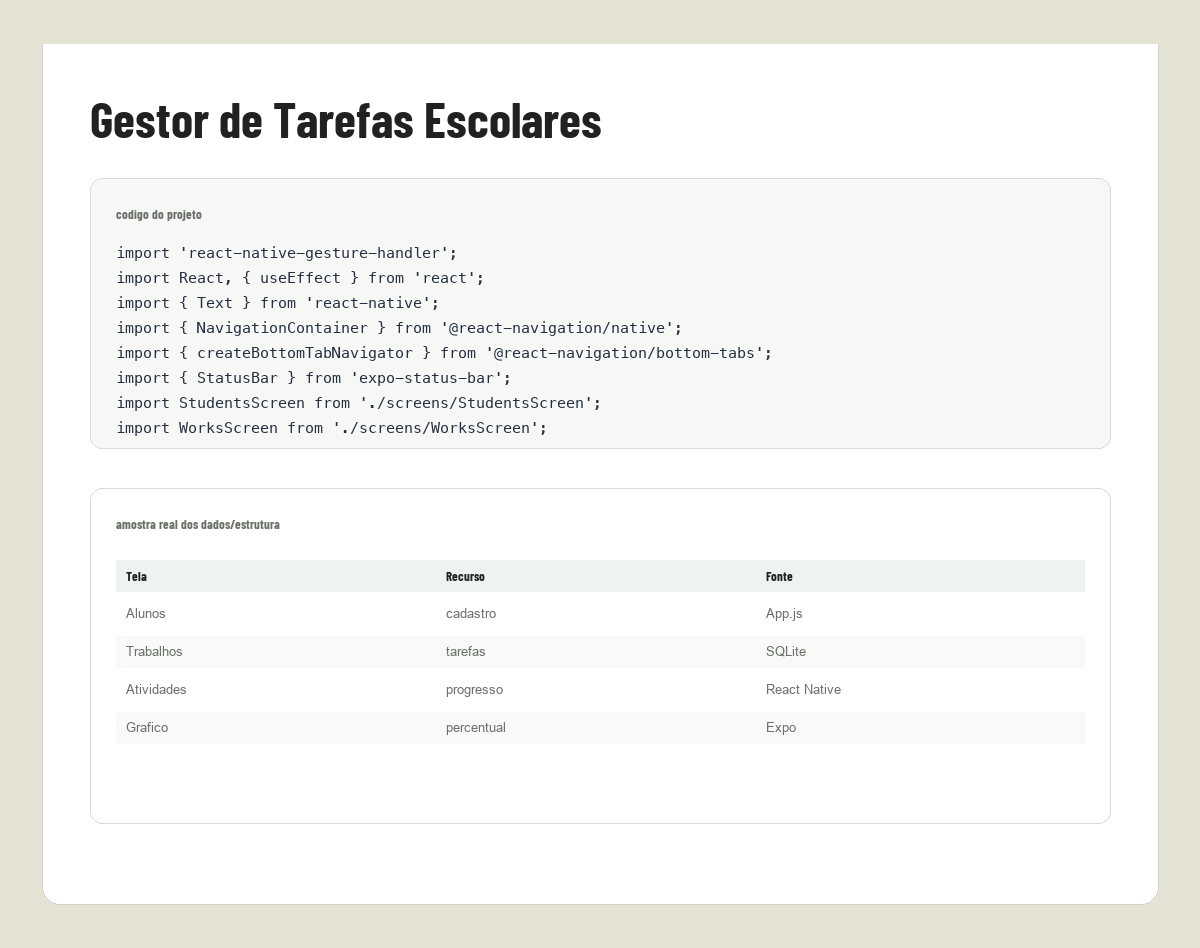
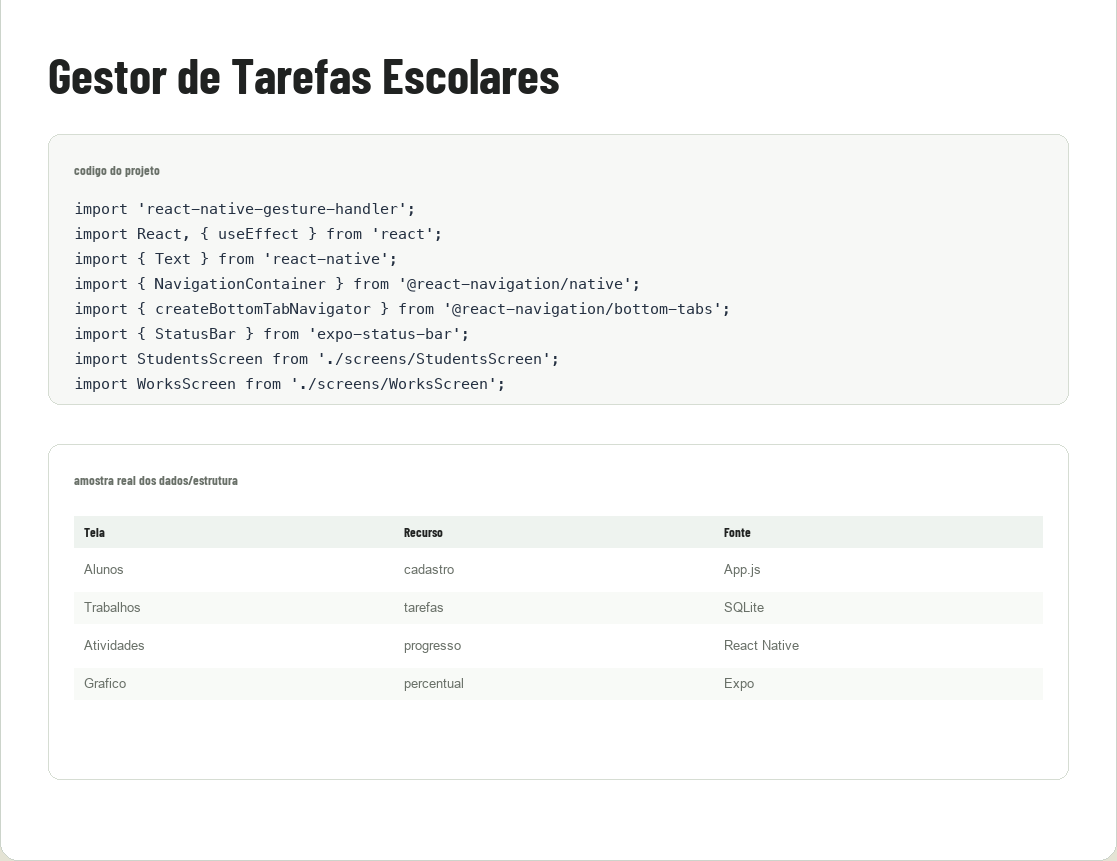
fix: Fix project preview image fitting

Changed region(s): [[0.0, 0.0, 1.0, 1.0], [0.3653, 0.6039, 0.4261, 0.8153], [0.6392, 0.6039, 0.7001, 0.8153]]

diff --git a/dist/index.html b/dist/index.html
@@ -18,7 +18,7 @@
   <link rel="apple-touch-icon" href="apple-touch-icon.png">
   <link rel="manifest" href="site.webmanifest">
   <link rel="preload" href="assets/fonts/barlow-700.ttf" as="font" type="font/ttf" crossorigin>
-  <link rel="stylesheet" href="styles.css?v=20261009a">
+  <link rel="stylesheet" href="styles.css?v=20261010b">
   <script src="app.js?v=20261004c" defer></script>
   <title>Nicholas Birochi | Portfólio</title>
 </head>
@@ -112,7 +112,7 @@
 
         <article class="project" data-category="dados ia" hidden>
           <button type="button" class="project-visual visual-churn" data-project="churn" aria-label="Conhecer o projeto Análise de Churn SaaS">
-            <img class="project-preview-image" src="assets/gh-churn.png?v=20261010" alt="Dashboard visual do projeto Análise de Churn SaaS" width="1200" height="600" loading="lazy">
+            <img class="project-preview-image" src="assets/gh-churn.png?v=20261010b" alt="Dashboard visual do projeto Análise de Churn SaaS" width="1200" height="600" loading="lazy">
             <span class="project-open"><img src="assets/icons/arrow-up-right.svg" alt="" width="24" height="24"></span>
           </button>
           <div class="project-meta"><div><p class="eyebrow">PYTHON · SCIKIT-LEARN · XGBOOST</p><h3><button type="button" data-project="churn" data-i18n="churnTitle">Análise de Churn SaaS</button></h3></div><span>2026</span></div><p class="project-description" data-i18n="churnDescription">Modelagem preditiva de cancelamento (Logistic Regression, Random Forest e XGBoost) com interpretação de variáveis e recomendações para Produto e CS.</p>
@@ -120,7 +120,7 @@
 
         <article class="project" data-category="software" hidden>
           <button type="button" class="project-visual visual-lyrics" data-project="lyrics" aria-label="Conhecer o projeto Language Lyrics Lab">
-            <img class="project-preview-image" src="assets/gh-lyrics.png?v=20261010" alt="Captura do aplicativo Language Lyrics Lab com sessão de estudo e letras traduzidas" width="1200" height="600" loading="lazy">
+            <img class="project-preview-image" src="assets/gh-lyrics.png?v=20261010b" alt="Captura do aplicativo Language Lyrics Lab com sessão de estudo e letras traduzidas" width="1200" height="600" loading="lazy">
             <span class="project-open"><img src="assets/icons/arrow-up-right.svg" alt="" width="24" height="24"></span>
           </button>
           <div class="project-meta"><div><p class="eyebrow">EXPO · TYPESCRIPT · ÁUDIO</p><h3><button type="button" data-project="lyrics">Language Lyrics Lab</button></h3></div><span>2026</span></div><p class="project-description" data-i18n="lyricsDescription">App de idiomas com letras sincronizadas, tradução linha a linha, flashcards e modos de revisão, usando LRCLIB e LibreTranslate.</p>
@@ -128,7 +128,7 @@
 
         <article class="project" data-category="software" hidden>
           <button type="button" class="project-visual visual-scheduler" data-project="scheduler" aria-label="Conhecer o projeto Simulador de Escalonamento">
-            <img class="project-preview-image" src="assets/gh-scheduler.png?v=20261010" alt="Visual do simulador de escalonamento com linha do tempo e métricas do motor" width="1200" height="600" loading="lazy">
+            <img class="project-preview-image" src="assets/gh-scheduler.png?v=20261010b" alt="Visual do simulador de escalonamento com linha do tempo e métricas do motor" width="1200" height="600" loading="lazy">
             <span class="project-open"><img src="assets/icons/arrow-up-right.svg" alt="" width="24" height="24"></span>
           </button>
           <div class="project-meta"><div><p class="eyebrow">PYTHON · SISTEMAS OPERACIONAIS</p><h3><button type="button" data-project="scheduler" data-i18n="schedulerTitle">Simulador de Escalonamento</button></h3></div><span>2026</span></div><p class="project-description" data-i18n="schedulerDescription">Simulador de algoritmos de escalonamento de CPU com inversão e herança de prioridade, protocolo de teto, aging, cenários persistentes e testes.</p>
@@ -136,7 +136,7 @@
 
         <article class="project" data-category="software" hidden>
           <button type="button" class="project-visual visual-doppler" data-project="doppler" aria-label="Conhecer o projeto Simulador de Áudio Doppler">
-            <img class="project-preview-image" src="assets/gh-doppler.png?v=20261010" alt="Prévia fiel da interface JavaFX do simulador de áudio Doppler" width="1200" height="600" loading="lazy">
+            <img class="project-preview-image" src="assets/gh-doppler.png?v=20261010b" alt="Prévia fiel da interface JavaFX do simulador de áudio Doppler" width="1200" height="600" loading="lazy">
             <span class="project-open"><img src="assets/icons/arrow-up-right.svg" alt="" width="24" height="24"></span>
           </button>
           <div class="project-meta"><div><p class="eyebrow">JAVA · POO · SQL</p><h3><button type="button" data-project="doppler" data-i18n="dopplerTitle">Simulador de Áudio Doppler</button></h3></div><span>2025</span></div><p class="project-description" data-i18n="dopplerDescription">Projeto multidisciplinar em Java que simula o comportamento do áudio com o efeito Doppler, unindo física, orientação a objetos e banco de dados.</p>
@@ -144,7 +144,7 @@
 
         <article class="project" data-category="ia dados" hidden>
           <button type="button" class="project-visual visual-fraud" data-project="fraud" aria-label="Conhecer o projeto Classificador de Fraude">
-            <img class="project-preview-image" src="assets/gh-fraud.png?v=20261010" alt="Dashboard do classificador de fraude usando a base transacoes_fraude.xlsx" width="1200" height="600" loading="lazy">
+            <img class="project-preview-image" src="assets/gh-fraud.png?v=20261010b" alt="Dashboard do classificador de fraude usando a base transacoes_fraude.xlsx" width="1200" height="600" loading="lazy">
             <span class="project-open"><img src="assets/icons/arrow-up-right.svg" alt="" width="24" height="24"></span>
           </button>
           <div class="project-meta"><div><p class="eyebrow">PYTHON · DECISION TREE · ML</p><h3><button type="button" data-project="fraud" data-i18n="fraudTitle">Classificador de Fraude</button></h3></div><span>2025</span></div><p class="project-description" data-i18n="fraudDescription">Árvore de decisão para sinalizar transações fraudulentas: EDA, preparo de atributos, tratamento de desbalanceamento e avaliação por ROC-AUC e PR-AUC.</p>
@@ -152,7 +152,7 @@
 
         <article class="project" data-category="software" hidden>
           <button type="button" class="project-visual visual-homework" data-project="homework" aria-label="Conhecer o projeto Gestor de Tarefas Escolares">
-            <img class="project-preview-image" src="assets/gh-homework.png?v=20261010" alt="Prévia da tela de gráfico do app Homework Management" width="1200" height="600" loading="lazy">
+            <img class="project-preview-image" src="assets/gh-homework.png?v=20261010b" alt="Prévia da tela de gráfico do app Homework Management" width="1200" height="600" loading="lazy">
             <span class="project-open"><img src="assets/icons/arrow-up-right.svg" alt="" width="24" height="24"></span>
           </button>
           <div class="project-meta"><div><p class="eyebrow">REACT NATIVE · EXPO · SQLITE</p><h3><button type="button" data-project="homework" data-i18n="homeworkTitle">Gestor de Tarefas Escolares</button></h3></div><span>2026</span></div><p class="project-description" data-i18n="homeworkDescription">App mobile para organizar a vida escolar: alunos, trabalhos, atividades, progresso e gráficos, feito com React Native, Expo e SQLite.</p>
@@ -160,7 +160,7 @@
 
         <article class="project" data-category="dados" hidden>
           <button type="button" class="project-visual visual-dashboards" data-project="dashboards" aria-label="Conhecer o projeto Dashboards de Vendas e Clientes">
-            <img class="project-preview-image" src="assets/gh-dashboards.png?v=20261010" alt="Dashboard de vendas e clientes gerado a partir da planilha DadosN2.xlsx" width="1200" height="600" loading="lazy">
+            <img class="project-preview-image" src="assets/gh-dashboards.png?v=20261010b" alt="Dashboard de vendas e clientes gerado a partir da planilha DadosN2.xlsx" width="1200" height="600" loading="lazy">
             <span class="project-open"><img src="assets/icons/arrow-up-right.svg" alt="" width="24" height="24"></span>
           </button>
           <div class="project-meta"><div><p class="eyebrow">BI · DADOS · SQL</p><h3><button type="button" data-project="dashboards" data-i18n="dashboardsTitle">Dashboards de Vendas e Clientes</button></h3></div><span>2026</span></div><p class="project-description" data-i18n="dashboardsDescription">Dashboards de vendas e clientes para análise de negócio, unindo processamento de dados, visualização e conceitos de banco de dados.</p>
@@ -168,7 +168,7 @@
 
         <article class="project" data-category="software" hidden>
           <button type="button" class="project-visual visual-dna" data-project="dna" aria-label="Conhecer o projeto DNACharacter">
-            <img class="project-preview-image" src="assets/gh-dna.png?v=20261010" alt="Captura do app DNACharacter com avatar e controles de traços" width="1200" height="600" loading="lazy">
+            <img class="project-preview-image" src="assets/gh-dna.png?v=20261010b" alt="Captura do app DNACharacter com avatar e controles de traços" width="1200" height="600" loading="lazy">
             <span class="project-open"><img src="assets/icons/arrow-up-right.svg" alt="" width="24" height="24"></span>
           </button>
           <div class="project-meta"><div><p class="eyebrow">JAVASCRIPT · HTML · CSS</p><h3><button type="button" data-project="dna">DNACharacter</button></h3></div><span>2025</span></div><p class="project-description" data-i18n="dnaDescription">App web paramétrico: ajuste cinco características e veja o avatar responder em corpo, postura e expressão.</p>
@@ -176,7 +176,7 @@
 
         <article class="project" data-category="dados" hidden>
           <button type="button" class="project-visual visual-netflix" data-project="netflix" aria-label="Conhecer o projeto Netflix Top 10 EDA">
-            <img class="project-preview-image" src="assets/gh-netflix.png?v=20261010" alt="Outputs reais do notebook Netflix Top 10 EDA" width="1200" height="600" loading="lazy">
+            <img class="project-preview-image" src="assets/gh-netflix.png?v=20261010b" alt="Outputs reais do notebook Netflix Top 10 EDA" width="1200" height="600" loading="lazy">
             <span class="project-open"><img src="assets/icons/arrow-up-right.svg" alt="" width="24" height="24"></span>
           </button>
           <div class="project-meta"><div><p class="eyebrow">PYTHON · PANDAS · MATPLOTLIB</p><h3><button type="button" data-project="netflix">Netflix Top 10 EDA</button></h3></div><span>2025</span></div><p class="project-description" data-i18n="netflixDescription">Análise exploratória do Netflix Daily Top 10 com Pandas e Matplotlib: validação, distribuições, cobertura temporal e títulos de maior audiência.</p>
@@ -184,7 +184,7 @@
 
         <article class="project" data-category="dados" hidden>
           <button type="button" class="project-visual visual-meal" data-project="meal" aria-label="Conhecer o projeto Análise de Delivery">
-            <img class="project-preview-image" src="assets/gh-meal.png?v=20261010" alt="Dashboard de delivery gerado a partir de pedidos.csv e cardapio.csv" width="1200" height="600" loading="lazy">
+            <img class="project-preview-image" src="assets/gh-meal.png?v=20261010b" alt="Dashboard de delivery gerado a partir de pedidos.csv e cardapio.csv" width="1200" height="600" loading="lazy">
             <span class="project-open"><img src="assets/icons/arrow-up-right.svg" alt="" width="24" height="24"></span>
           </button>
           <div class="project-meta"><div><p class="eyebrow">PYTHON · PANDAS · NUMPY</p><h3><button type="button" data-project="meal" data-i18n="mealTitle">Análise de Delivery</button></h3></div><span>2025</span></div><p class="project-description" data-i18n="mealDescription">Análise de dados de delivery com Pandas e NumPy: EDA, engenharia de atributos, tendência mensal de receita e principais KPIs de negócio.</p>
@@ -192,7 +192,7 @@
 
         <article class="project" data-category="dados" hidden>
           <button type="button" class="project-visual visual-dbprojects" data-project="dbprojects" aria-label="Conhecer o projeto Projetos de Banco de Dados">
-            <img class="project-preview-image" src="assets/gh-dbprojects.png?v=20261010" alt="Prévia dos notebooks Titanic e IceCream do projeto de banco de dados" width="1200" height="600" loading="lazy">
+            <img class="project-preview-image" src="assets/gh-dbprojects.png?v=20261010b" alt="Prévia dos notebooks Titanic e IceCream do projeto de banco de dados" width="1200" height="600" loading="lazy">
             <span class="project-open"><img src="assets/icons/arrow-up-right.svg" alt="" width="24" height="24"></span>
           </button>
           <div class="project-meta"><div><p class="eyebrow">JUPYTER · PYTHON · SQL</p><h3><button type="button" data-project="dbprojects" data-i18n="dbprojectsTitle">Projetos de Banco de Dados</button></h3></div><span>2026</span></div><p class="project-description" data-i18n="dbprojectsDescription">Coleção de projetos de banco de dados e análise de dados, com exercícios práticos usando os conjuntos IceCream e Titanic.</p>
@@ -200,7 +200,7 @@
 
         <article class="project" data-category="dados" hidden>
           <button type="button" class="project-visual visual-statistics" data-project="statistics" aria-label="Conhecer o projeto Estatística para Devs">
-            <img class="project-preview-image" src="assets/gh-statistics.png?v=20261010" alt="Gráficos reais do script Pandas Revenue Challenge" width="1200" height="600" loading="lazy">
+            <img class="project-preview-image" src="assets/gh-statistics.png?v=20261010b" alt="Gráficos reais do script Pandas Revenue Challenge" width="1200" height="600" loading="lazy">
             <span class="project-open"><img src="assets/icons/arrow-up-right.svg" alt="" width="24" height="24"></span>
           </button>
           <div class="project-meta"><div><p class="eyebrow">PYTHON · PANDAS · MATPLOTLIB</p><h3><button type="button" data-project="statistics" data-i18n="statisticsTitle">Estatística para Devs</button></h3></div><span>2025</span></div><p class="project-description" data-i18n="statisticsDescription">Desafio de estatística e análise com Pandas: limpeza de dados, cálculo de médias e geração de gráficos de barra e linha por mês com Matplotlib.</p>

diff --git a/index.html b/index.html
@@ -18,7 +18,7 @@
   <link rel="apple-touch-icon" href="apple-touch-icon.png">
   <link rel="manifest" href="site.webmanifest">
   <link rel="preload" href="assets/fonts/barlow-700.ttf" as="font" type="font/ttf" crossorigin>
-  <link rel="stylesheet" href="styles.css?v=20261009a">
+  <link rel="stylesheet" href="styles.css?v=20261010b">
   <script src="app.js?v=20261004c" defer></script>
   <title>Nicholas Birochi | Portfólio</title>
 </head>
@@ -112,7 +112,7 @@
 
         <article class="project" data-category="dados ia" hidden>
           <button type="button" class="project-visual visual-churn" data-project="churn" aria-label="Conhecer o projeto Análise de Churn SaaS">
-            <img class="project-preview-image" src="assets/gh-churn.png?v=20261010" alt="Dashboard visual do projeto Análise de Churn SaaS" width="1200" height="600" loading="lazy">
+            <img class="project-preview-image" src="assets/gh-churn.png?v=20261010b" alt="Dashboard visual do projeto Análise de Churn SaaS" width="1200" height="600" loading="lazy">
             <span class="project-open"><img src="assets/icons/arrow-up-right.svg" alt="" width="24" height="24"></span>
           </button>
           <div class="project-meta"><div><p class="eyebrow">PYTHON · SCIKIT-LEARN · XGBOOST</p><h3><button type="button" data-project="churn" data-i18n="churnTitle">Análise de Churn SaaS</button></h3></div><span>2026</span></div><p class="project-description" data-i18n="churnDescription">Modelagem preditiva de cancelamento (Logistic Regression, Random Forest e XGBoost) com interpretação de variáveis e recomendações para Produto e CS.</p>
@@ -120,7 +120,7 @@
 
         <article class="project" data-category="software" hidden>
           <button type="button" class="project-visual visual-lyrics" data-project="lyrics" aria-label="Conhecer o projeto Language Lyrics Lab">
-            <img class="project-preview-image" src="assets/gh-lyrics.png?v=20261010" alt="Captura do aplicativo Language Lyrics Lab com sessão de estudo e letras traduzidas" width="1200" height="600" loading="lazy">
+            <img class="project-preview-image" src="assets/gh-lyrics.png?v=20261010b" alt="Captura do aplicativo Language Lyrics Lab com sessão de estudo e letras traduzidas" width="1200" height="600" loading="lazy">
             <span class="project-open"><img src="assets/icons/arrow-up-right.svg" alt="" width="24" height="24"></span>
           </button>
           <div class="project-meta"><div><p class="eyebrow">EXPO · TYPESCRIPT · ÁUDIO</p><h3><button type="button" data-project="lyrics">Language Lyrics Lab</button></h3></div><span>2026</span></div><p class="project-description" data-i18n="lyricsDescription">App de idiomas com letras sincronizadas, tradução linha a linha, flashcards e modos de revisão, usando LRCLIB e LibreTranslate.</p>
@@ -128,7 +128,7 @@
 
         <article class="project" data-category="software" hidden>
           <button type="button" class="project-visual visual-scheduler" data-project="scheduler" aria-label="Conhecer o projeto Simulador de Escalonamento">
-            <img class="project-preview-image" src="assets/gh-scheduler.png?v=20261010" alt="Visual do simulador de escalonamento com linha do tempo e métricas do motor" width="1200" height="600" loading="lazy">
+            <img class="project-preview-image" src="assets/gh-scheduler.png?v=20261010b" alt="Visual do simulador de escalonamento com linha do tempo e métricas do motor" width="1200" height="600" loading="lazy">
             <span class="project-open"><img src="assets/icons/arrow-up-right.svg" alt="" width="24" height="24"></span>
           </button>
           <div class="project-meta"><div><p class="eyebrow">PYTHON · SISTEMAS OPERACIONAIS</p><h3><button type="button" data-project="scheduler" data-i18n="schedulerTitle">Simulador de Escalonamento</button></h3></div><span>2026</span></div><p class="project-description" data-i18n="schedulerDescription">Simulador de algoritmos de escalonamento de CPU com inversão e herança de prioridade, protocolo de teto, aging, cenários persistentes e testes.</p>
@@ -136,7 +136,7 @@
 
         <article class="project" data-category="software" hidden>
           <button type="button" class="project-visual visual-doppler" data-project="doppler" aria-label="Conhecer o projeto Simulador de Áudio Doppler">
-            <img class="project-preview-image" src="assets/gh-doppler.png?v=20261010" alt="Prévia fiel da interface JavaFX do simulador de áudio Doppler" width="1200" height="600" loading="lazy">
+            <img class="project-preview-image" src="assets/gh-doppler.png?v=20261010b" alt="Prévia fiel da interface JavaFX do simulador de áudio Doppler" width="1200" height="600" loading="lazy">
             <span class="project-open"><img src="assets/icons/arrow-up-right.svg" alt="" width="24" height="24"></span>
           </button>
           <div class="project-meta"><div><p class="eyebrow">JAVA · POO · SQL</p><h3><button type="button" data-project="doppler" data-i18n="dopplerTitle">Simulador de Áudio Doppler</button></h3></div><span>2025</span></div><p class="project-description" data-i18n="dopplerDescription">Projeto multidisciplinar em Java que simula o comportamento do áudio com o efeito Doppler, unindo física, orientação a objetos e banco de dados.</p>
@@ -144,7 +144,7 @@
 
         <article class="project" data-category="ia dados" hidden>
           <button type="button" class="project-visual visual-fraud" data-project="fraud" aria-label="Conhecer o projeto Classificador de Fraude">
-            <img class="project-preview-image" src="assets/gh-fraud.png?v=20261010" alt="Dashboard do classificador de fraude usando a base transacoes_fraude.xlsx" width="1200" height="600" loading="lazy">
+            <img class="project-preview-image" src="assets/gh-fraud.png?v=20261010b" alt="Dashboard do classificador de fraude usando a base transacoes_fraude.xlsx" width="1200" height="600" loading="lazy">
             <span class="project-open"><img src="assets/icons/arrow-up-right.svg" alt="" width="24" height="24"></span>
           </button>
           <div class="project-meta"><div><p class="eyebrow">PYTHON · DECISION TREE · ML</p><h3><button type="button" data-project="fraud" data-i18n="fraudTitle">Classificador de Fraude</button></h3></div><span>2025</span></div><p class="project-description" data-i18n="fraudDescription">Árvore de decisão para sinalizar transações fraudulentas: EDA, preparo de atributos, tratamento de desbalanceamento e avaliação por ROC-AUC e PR-AUC.</p>
@@ -152,7 +152,7 @@
 
         <article class="project" data-category="software" hidden>
           <button type="button" class="project-visual visual-homework" data-project="homework" aria-label="Conhecer o projeto Gestor de Tarefas Escolares">
-            <img class="project-preview-image" src="assets/gh-homework.png?v=20261010" alt="Prévia da tela de gráfico do app Homework Management" width="1200" height="600" loading="lazy">
+            <img class="project-preview-image" src="assets/gh-homework.png?v=20261010b" alt="Prévia da tela de gráfico do app Homework Management" width="1200" height="600" loading="lazy">
             <span class="project-open"><img src="assets/icons/arrow-up-right.svg" alt="" width="24" height="24"></span>
           </button>
           <div class="project-meta"><div><p class="eyebrow">REACT NATIVE · EXPO · SQLITE</p><h3><button type="button" data-project="homework" data-i18n="homeworkTitle">Gestor de Tarefas Escolares</button></h3></div><span>2026</span></div><p class="project-description" data-i18n="homeworkDescription">App mobile para organizar a vida escolar: alunos, trabalhos, atividades, progresso e gráficos, feito com React Native, Expo e SQLite.</p>
@@ -160,7 +160,7 @@
 
         <article class="project" data-category="dados" hidden>
           <button type="button" class="project-visual visual-dashboards" data-project="dashboards" aria-label="Conhecer o projeto Dashboards de Vendas e Clientes">
-            <img class="project-preview-image" src="assets/gh-dashboards.png?v=20261010" alt="Dashboard de vendas e clientes gerado a partir da planilha DadosN2.xlsx" width="1200" height="600" loading="lazy">
+            <img class="project-preview-image" src="assets/gh-dashboards.png?v=20261010b" alt="Dashboard de vendas e clientes gerado a partir da planilha DadosN2.xlsx" width="1200" height="600" loading="lazy">
             <span class="project-open"><img src="assets/icons/arrow-up-right.svg" alt="" width="24" height="24"></span>
           </button>
           <div class="project-meta"><div><p class="eyebrow">BI · DADOS · SQL</p><h3><button type="button" data-project="dashboards" data-i18n="dashboardsTitle">Dashboards de Vendas e Clientes</button></h3></div><span>2026</span></div><p class="project-description" data-i18n="dashboardsDescription">Dashboards de vendas e clientes para análise de negócio, unindo processamento de dados, visualização e conceitos de banco de dados.</p>
@@ -168,7 +168,7 @@
 
         <article class="project" data-category="software" hidden>
           <button type="button" class="project-visual visual-dna" data-project="dna" aria-label="Conhecer o projeto DNACharacter">
-            <img class="project-preview-image" src="assets/gh-dna.png?v=20261010" alt="Captura do app DNACharacter com avatar e controles de traços" width="1200" height="600" loading="lazy">
+            <img class="project-preview-image" src="assets/gh-dna.png?v=20261010b" alt="Captura do app DNACharacter com avatar e controles de traços" width="1200" height="600" loading="lazy">
             <span class="project-open"><img src="assets/icons/arrow-up-right.svg" alt="" width="24" height="24"></span>
           </button>
           <div class="project-meta"><div><p class="eyebrow">JAVASCRIPT · HTML · CSS</p><h3><button type="button" data-project="dna">DNACharacter</button></h3></div><span>2025</span></div><p class="project-description" data-i18n="dnaDescription">App web paramétrico: ajuste cinco características e veja o avatar responder em corpo, postura e expressão.</p>
@@ -176,7 +176,7 @@
 
         <article class="project" data-category="dados" hidden>
           <button type="button" class="project-visual visual-netflix" data-project="netflix" aria-label="Conhecer o projeto Netflix Top 10 EDA">
-            <img class="project-preview-image" src="assets/gh-netflix.png?v=20261010" alt="Outputs reais do notebook Netflix Top 10 EDA" width="1200" height="600" loading="lazy">
+            <img class="project-preview-image" src="assets/gh-netflix.png?v=20261010b" alt="Outputs reais do notebook Netflix Top 10 EDA" width="1200" height="600" loading="lazy">
             <span class="project-open"><img src="assets/icons/arrow-up-right.svg" alt="" width="24" height="24"></span>
           </button>
           <div class="project-meta"><div><p class="eyebrow">PYTHON · PANDAS · MATPLOTLIB</p><h3><button type="button" data-project="netflix">Netflix Top 10 EDA</button></h3></div><span>2025</span></div><p class="project-description" data-i18n="netflixDescription">Análise exploratória do Netflix Daily Top 10 com Pandas e Matplotlib: validação, distribuições, cobertura temporal e títulos de maior audiência.</p>
@@ -184,7 +184,7 @@
 
         <article class="project" data-category="dados" hidden>
           <button type="button" class="project-visual visual-meal" data-project="meal" aria-label="Conhecer o projeto Análise de Delivery">
-            <img class="project-preview-image" src="assets/gh-meal.png?v=20261010" alt="Dashboard de delivery gerado a partir de pedidos.csv e cardapio.csv" width="1200" height="600" loading="lazy">
+            <img class="project-preview-image" src="assets/gh-meal.png?v=20261010b" alt="Dashboard de delivery gerado a partir de pedidos.csv e cardapio.csv" width="1200" height="600" loading="lazy">
             <span class="project-open"><img src="assets/icons/arrow-up-right.svg" alt="" width="24" height="24"></span>
           </button>
           <div class="project-meta"><div><p class="eyebrow">PYTHON · PANDAS · NUMPY</p><h3><button type="button" data-project="meal" data-i18n="mealTitle">Análise de Delivery</button></h3></div><span>2025</span></div><p class="project-description" data-i18n="mealDescription">Análise de dados de delivery com Pandas e NumPy: EDA, engenharia de atributos, tendência mensal de receita e principais KPIs de negócio.</p>
@@ -192,7 +192,7 @@
 
         <article class="project" data-category="dados" hidden>
           <button type="button" class="project-visual visual-dbprojects" data-project="dbprojects" aria-label="Conhecer o projeto Projetos de Banco de Dados">
-            <img class="project-preview-image" src="assets/gh-dbprojects.png?v=20261010" alt="Prévia dos notebooks Titanic e IceCream do projeto de banco de dados" width="1200" height="600" loading="lazy">
+            <img class="project-preview-image" src="assets/gh-dbprojects.png?v=20261010b" alt="Prévia dos notebooks Titanic e IceCream do projeto de banco de dados" width="1200" height="600" loading="lazy">
             <span class="project-open"><img src="assets/icons/arrow-up-right.svg" alt="" width="24" height="24"></span>
           </button>
           <div class="project-meta"><div><p class="eyebrow">JUPYTER · PYTHON · SQL</p><h3><button type="button" data-project="dbprojects" data-i18n="dbprojectsTitle">Projetos de Banco de Dados</button></h3></div><span>2026</span></div><p class="project-description" data-i18n="dbprojectsDescription">Coleção de projetos de banco de dados e análise de dados, com exercícios práticos usando os conjuntos IceCream e Titanic.</p>
@@ -200,7 +200,7 @@
 
         <article class="project" data-category="dados" hidden>
           <button type="button" class="project-visual visual-statistics" data-project="statistics" aria-label="Conhecer o projeto Estatística para Devs">
-            <img class="project-preview-image" src="assets/gh-statistics.png?v=20261010" alt="Gráficos reais do script Pandas Revenue Challenge" width="1200" height="600" loading="lazy">
+            <img class="project-preview-image" src="assets/gh-statistics.png?v=20261010b" alt="Gráficos reais do script Pandas Revenue Challenge" width="1200" height="600" loading="lazy">
             <span class="project-open"><img src="assets/icons/arrow-up-right.svg" alt="" width="24" height="24"></span>
           </button>
           <div class="project-meta"><div><p class="eyebrow">PYTHON · PANDAS · MATPLOTLIB</p><h3><button type="button" data-project="statistics" data-i18n="statisticsTitle">Estatística para Devs</button></h3></div><span>2025</span></div><p class="project-description" data-i18n="statisticsDescription">Desafio de estatística e análise com Pandas: limpeza de dados, cálculo de médias e geração de gráficos de barra e linha por mês com Matplotlib.</p>

diff --git a/dist/styles.css b/dist/styles.css
@@ -1430,7 +1430,7 @@ img{-webkit-user-drag:none;-webkit-user-select:none;user-select:none}
 .visual-statistics{background:#dfe0ec;--spec-ink:#343a66}
 @media(max-width:640px){.visual-text{padding:20px}.visual-text .text-name{font-size:26px}}
 
-/* Editorial v30: repo screenshots fill the card instead of showing colored gutters. */
+/* Editorial v31: trimmed screenshots fit whole, without colored gutters or crop. */
 .visual-churn .project-preview-image,
 .visual-lyrics .project-preview-image,
 .visual-scheduler .project-preview-image,
@@ -1443,13 +1443,11 @@ img{-webkit-user-drag:none;-webkit-user-select:none;user-select:none}
 .visual-meal .project-preview-image,
 .visual-dbprojects .project-preview-image,
 .visual-statistics .project-preview-image{
-  top:-32px;
-  right:auto;
-  bottom:auto;
-  left:-32px;
-  width:calc(100% + 64px);
-  height:calc(100% + 64px);
-  max-width:none;
-  object-fit:cover;
+  inset:0;
+  width:100%;
+  height:100%;
+  max-width:100%;
+  object-fit:contain;
   object-position:center;
+  background:#fff;
 }

diff --git a/styles.css b/styles.css
@@ -1430,7 +1430,7 @@ img{-webkit-user-drag:none;-webkit-user-select:none;user-select:none}
 .visual-statistics{background:#dfe0ec;--spec-ink:#343a66}
 @media(max-width:640px){.visual-text{padding:20px}.visual-text .text-name{font-size:26px}}
 
-/* Editorial v30: repo screenshots fill the card instead of showing colored gutters. */
+/* Editorial v31: trimmed screenshots fit whole, without colored gutters or crop. */
 .visual-churn .project-preview-image,
 .visual-lyrics .project-preview-image,
 .visual-scheduler .project-preview-image,
@@ -1443,13 +1443,11 @@ img{-webkit-user-drag:none;-webkit-user-select:none;user-select:none}
 .visual-meal .project-preview-image,
 .visual-dbprojects .project-preview-image,
 .visual-statistics .project-preview-image{
-  top:-32px;
-  right:auto;
-  bottom:auto;
-  left:-32px;
-  width:calc(100% + 64px);
-  height:calc(100% + 64px);
-  max-width:none;
-  object-fit:cover;
+  inset:0;
+  width:100%;
+  height:100%;
+  max-width:100%;
+  object-fit:contain;
   object-position:center;
+  background:#fff;
 }
